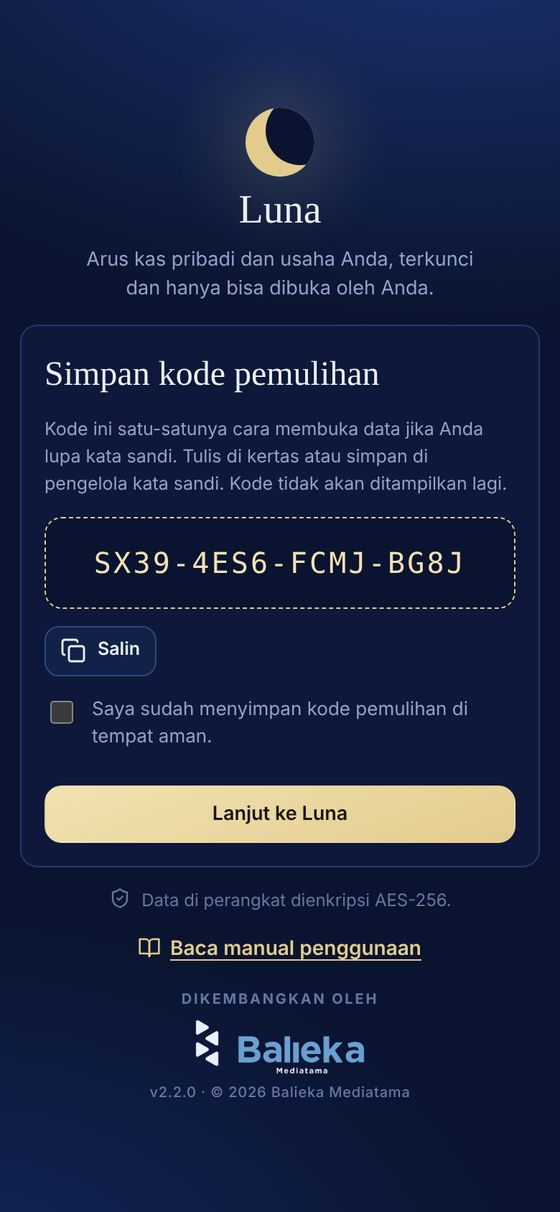
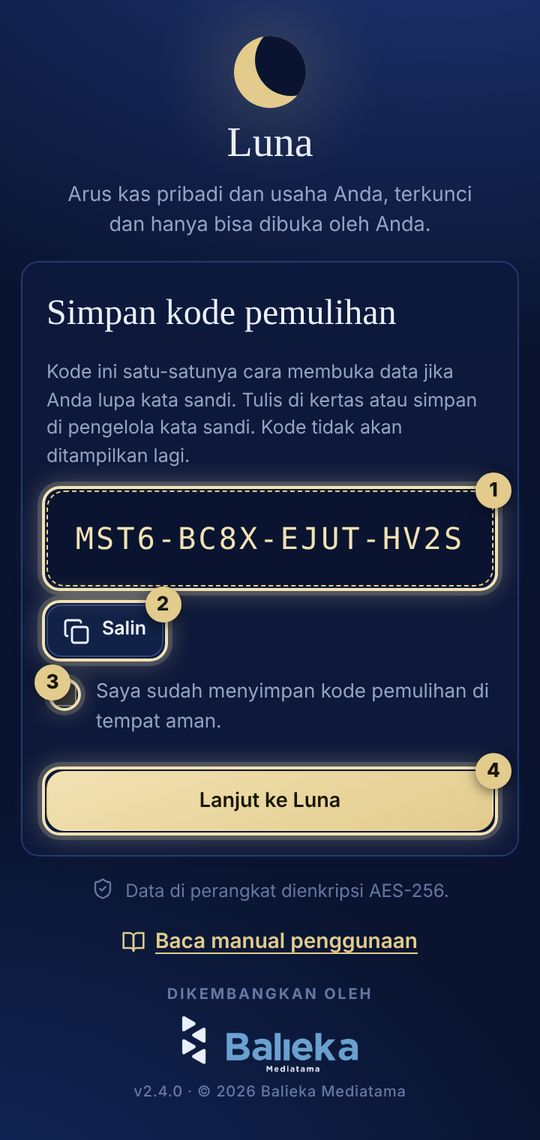
Manual v2.4: screenshot bernomor sesuai langkah, dua screenshot untuk formulir, hasil scan, laporan, dan pengaturan
Claude-Session: https://claude.ai/code/session_01FjL5nQCvVEYDKSrSiXHHwW

Changed region(s): [[0.0296, 0.0307, 0.9778, 0.9825], [0.2667, 0.9518, 0.3259, 0.9825], [0.2667, 0.8904, 0.2963, 0.9211]]

diff --git a/index.html b/index.html
@@ -432,6 +432,15 @@ code.k{overflow-wrap:anywhere;background:var(--bg);border:1px solid var(--line);
 .faq p{margin:8px 0 0}
 .manual-overlay{z-index:95}
 .manual-sheet{max-width:880px}
+.mk{display:inline-grid;place-items:center;width:20px;height:20px;border-radius:50%;background:var(--moon);color:var(--moon-ink);font-size:11.5px;font-weight:800;margin-right:6px;vertical-align:1px;flex:none}
+.man-sec.multi{grid-template-columns:1fr}
+.shots{display:flex;flex-wrap:wrap;gap:18px;justify-content:center}
+.shots .shot{flex:0 1 260px}
+.man-body ol{list-style:none;padding-left:0}
+.man-body ol li{display:flex;align-items:flex-start;gap:10px;padding-left:0}
+.man-body ol li>.mk{margin:1px 0 0}
+.man-body ol li>span:last-child{min-width:0}
+.mk.dot{width:7px;height:7px;background:var(--line-2);margin:8px 7px 0 6px!important}
 @media (max-width:600px){.man-title h3{font-size:19px}.toc{grid-template-columns:1fr 1fr}.toc button{font-size:12px;padding:8px}.shot img{max-width:240px}.manual-sheet .shot img{max-width:220px}}
 
 /* ---------- kredit pengembang ---------- */
@@ -512,7 +521,7 @@ code.k{overflow-wrap:anywhere;background:var(--bg);border:1px solid var(--line);
    ========================================================= */
 const CFG = Object.assign({supabaseUrl:"",supabaseKey:"",allowLocalAccounts:true,allowCloudSignup:true,appName:"Luna Money Tool"}, window.LUNA_CONFIG||{});
 const CLOUD = !!(CFG.supabaseUrl && CFG.supabaseKey);
-const APP_VERSION = "2.3.0";
+const APP_VERSION = "2.4.0";
 const DEVELOPER = "Balieka Mediatama";
 function creditHTML(){return `<footer class="credit"><span class="k">Dikembangkan oleh</span><img class="screen-logo" src="assets/balieka-logo-light.png" alt="${DEVELOPER}" width="125" height="40"><img class="print-logo" src="assets/balieka-logo.png" alt="${DEVELOPER}" width="125" height="40"><p>Luna Money Tool v${APP_VERSION}<br>© ${new Date().getFullYear()} ${DEVELOPER}. Hak cipta dilindungi.</p></footer>`}
 const LOCAL_OK = CFG.allowLocalAccounts!==false || !CLOUD;
@@ -1473,63 +1482,63 @@ const MANUAL=[
  {id:"kenal",t:"Mengenal Luna",i:"moon",img:"00-laptop",wide:true,cap:"Tampilan Luna di laptop: menu di kiri, ringkasan arus kas di tengah.",
   p:"Luna Money Tool membantu Anda mencatat pemasukan dan pengeluaran pribadi maupun usaha, membaca nota secara otomatis, dan menyusun laporan arus kas harian, mingguan, bulanan, dan tahunan. Aplikasi ini bisa dipakai di HP dan laptop melalui browser.",
   s:["<b>Buku Pribadi</b> untuk keuangan sehari-hari: listrik, air, belanja, makan, transportasi, dan lainnya.","<b>Buku Usaha</b> untuk penjualan, bahan baku, gaji karyawan, sewa, iklan, dan biaya usaha lainnya.","<b>Semua</b> menggabungkan kedua buku dalam satu tampilan.","Data Anda dienkripsi dan hanya bisa dibuka dengan kata sandi atau PIN Anda."]},
- {id:"daftar",t:"Daftar akun baru",i:"user-plus",img:"01-daftar",cap:"Formulir pendaftaran.",
+ {id:"daftar",t:"Daftar akun baru",i:"user-plus",img:"01-daftar",cap:"Formulir pendaftaran. Angka pada gambar sesuai nomor langkah.",
   p:"Saat pertama membuka Luna, buat akun terlebih dahulu.",
-  s:["Pilih tab <b>Daftar</b>.","Isi <b>nama</b>, <b>email</b>, dan <b>kata sandi</b> (minimal 8 karakter, campuran huruf dan angka). Garis di bawah kolom kata sandi menunjukkan kekuatannya.","Ulangi kata sandi, centang persetujuan, lalu ketuk <b>Buat akun</b>."],
+  s:["[1] Pilih tab <b>Daftar</b>.","[2] Isi <b>nama</b> dan <b>email</b> Anda.","[3] Buat <b>kata sandi</b> minimal 8 karakter, campuran huruf dan angka. Garis di bawahnya menunjukkan kekuatan sandi. Ulangi kata sandi di kolom berikutnya.","[4] Centang persetujuan.","[5] Ketuk <b>Buat akun</b>."],
   tip:"Jika pemilik aplikasi mengaktifkan akun cloud, Anda bisa memilih <b>Cloud</b> agar data tersinkron di HP dan laptop. Akun cloud perlu verifikasi lewat email."},
  {id:"pemulihan",t:"Simpan kode pemulihan",i:"key-round",img:"02-kode",cap:"Kode pemulihan hanya tampil satu kali.",
   p:"Setelah mendaftar akun perangkat, Luna menampilkan kode pemulihan 16 karakter.",
-  s:["Tulis kode di kertas atau simpan di aplikasi pengelola kata sandi.","Ketuk <b>Salin</b> jika ingin menyalinnya.","Centang <b>Saya sudah menyimpan kode pemulihan</b>, lalu ketuk <b>Lanjut ke Luna</b>."],
+  s:["[1] Tulis kode ini di kertas atau simpan di aplikasi pengelola kata sandi.","[2] Ketuk <b>Salin</b> jika ingin menyalinnya.","[3] Centang <b>Saya sudah menyimpan kode pemulihan di tempat aman</b>.","[4] Ketuk <b>Lanjut ke Luna</b>."],
   warn:"Kode ini satu-satunya cara membuka data jika Anda lupa kata sandi. Tanpa kode, data memang tidak bisa dibuka oleh siapa pun."},
  {id:"masuk",t:"Masuk, PIN, dan kunci otomatis",i:"lock",img:"03-masuk",cap:"Membuka Luna dengan PIN 6 digit.",
   p:"Setiap kali dibuka, Luna meminta kata sandi atau PIN. Aplikasi juga terkunci sendiri jika lama tidak dipakai.",
-  s:["Masukkan <b>kata sandi</b> lalu ketuk <b>Buka Luna</b>, atau ketik <b>PIN</b> jika sudah diatur. Luna terbuka otomatis setelah 6 angka.","Ketuk <b>Pakai kata sandi</b> untuk beralih dari PIN.","Ketuk <b>Lupa kata sandi?</b> untuk memulihkan akun dengan kode pemulihan (akun perangkat) atau tautan email (akun cloud)."],
-  tip:"Setelah 5 kali salah, Luna memberi jeda sebelum bisa mencoba lagi. PIN yang salah 5 kali akan dinonaktifkan."},
- {id:"navigasi",t:"Navigasi dan menu",i:"layout-grid",img:"04-beranda",cap:"Beranda di HP: buku, periode, ringkasan, dan navigasi bawah.",
+  s:["[1] Ketik <b>PIN</b> 6 angka. Luna terbuka otomatis setelah angka keenam. Jika belum mengatur PIN, isi kata sandi lalu ketuk <b>Buka Luna</b>.","[2] Ketuk <b>Pakai kata sandi</b> untuk beralih dari PIN ke kata sandi.","[3] Ketuk <b>Lupa kata sandi?</b> untuk memulihkan akun dengan kode pemulihan (akun perangkat) atau tautan email (akun cloud)."],
+  tip:"Setelah 5 kali salah, Luna memberi jeda sebelum bisa mencoba lagi. PIN yang salah 5 kali otomatis dinonaktifkan."},
+ {id:"navigasi",t:"Navigasi dan menu",i:"layout-grid",img:"04-beranda",cap:"Beranda di HP.",
   p:"Bagian atas layar dipakai untuk memilih buku dan periode. Bagian bawah untuk berpindah halaman.",
-  s:["Pilih <b>Pribadi</b>, <b>Usaha</b>, atau <b>Semua</b> di bagian atas.","Pilih periode <b>Harian</b>, <b>Mingguan</b>, <b>Bulanan</b>, atau <b>Tahunan</b>. Gunakan panah ‹ › untuk mundur atau maju.","Di HP, navigasi bawah berisi <b>Beranda</b>, <b>Transaksi</b>, <b>Nota</b>, <b>Laporan</b>, dan <b>Menu</b>.","Di laptop, semua menu ada di sisi kiri layar."]},
+  s:["[1] Pilih buku <b>Pribadi</b>, <b>Usaha</b>, atau <b>Semua</b>.","[2] Pilih periode <b>Harian</b>, <b>Mingguan</b>, <b>Bulanan</b>, atau <b>Tahunan</b>.","[3] Ketuk panah ‹ › untuk mundur atau maju ke periode lain.","[4] Kartu ringkasan menampilkan arus kas bersih, saldo saat ini, pemasukan, dan pengeluaran periode terpilih.","[5] Tombol <b>Nota</b> untuk memotret atau mengupload nota.","[6] Tombol <b>Menu</b> membuka semua fitur lain. Di laptop, semua menu ada di sisi kiri layar."]},
  {id:"menu",t:"Menu lengkap",i:"layout-grid",img:"15-menu",cap:"Isi tombol Menu di HP.",
   p:"Tombol <b>Menu</b> di kanan bawah membuka semua fitur yang tidak muat di navigasi bawah.",
   s:["<b>Anggaran</b>, <b>Analisa</b>, <b>Akun & Pengaturan</b>, dan <b>Manual</b> (panduan ini).","Pintasan <b>Tambah Transaksi</b> dan <b>Upload dari Galeri</b>.","<b>Kunci Aplikasi</b> untuk mengunci Luna seketika, misalnya sebelum meminjamkan HP."]},
  {id:"cepat",t:"Catat cepat",i:"pencil",img:"05-catat-cepat",cap:"Luna langsung menebak jenis, nominal, dan kategori.",
   p:"Cara tercepat mencatat transaksi: ketik satu kalimat pendek di kartu <b>Catat cepat</b> di Beranda.",
-  s:["Ketik misalnya <code class=\"k\">makan siang 35rb</code>, <code class=\"k\">bensin 50rb</code>, atau <code class=\"k\">gaji 8,5jt</code>.","Tambahkan kata <code class=\"k\">kemarin</code> jika transaksinya kemarin.","Periksa tebakan Luna di bawah kolom, lalu ketuk tombol kirim."],
+  s:["[1] Ketik misalnya <code class=\"k\">makan siang 35rb</code>, <code class=\"k\">bensin 50rb</code>, atau <code class=\"k\">gaji 8,5jt</code>. Tambahkan kata <code class=\"k\">kemarin</code> jika transaksinya kemarin.","[2] Periksa tebakan Luna (jenis, nominal, kategori), lalu ketuk tombol kirim di sebelah kanan kolom.","[3] Atau pakai tombol <b>Foto nota</b>, <b>Dari galeri</b>, dan <b>Form lengkap</b> untuk cara lain."],
   tip:"Kata seperti gaji, terima, jual, bonus, atau omzet otomatis dicatat sebagai pemasukan."},
- {id:"form",t:"Tambah transaksi lengkap",i:"plus",img:"08-form",cap:"Formulir transaksi.",
-  p:"Gunakan formulir lengkap jika ingin mengisi toko, tanggal, metode bayar, atau melampirkan bukti.",
-  s:["Ketuk <b>Form lengkap</b> di Beranda, atau <b>Tambah Transaksi</b> di Menu.","Pilih <b>Pengeluaran</b> atau <b>Pemasukan</b>, isi nominal, toko, tanggal, dan catatan.","Pilih buku <b>Pribadi</b> atau <b>Usaha</b>. Kategori terpilih otomatis dari nama toko dan catatan; ketuk kategori lain jika perlu.","Pilih metode bayar, lampirkan foto bukti bila ada, lalu ketuk <b>Simpan</b>."]},
+ {id:"form",t:"Tambah transaksi lengkap",i:"plus",img:["08-form","08b-kategori"],cap:["Bagian atas formulir.","Bagian bawah: kategori dan metode bayar."],
+  p:"Gunakan formulir lengkap jika ingin mengisi toko, tanggal, metode bayar, atau melampirkan bukti. Buka lewat <b>Form lengkap</b> di Beranda atau <b>Tambah Transaksi</b> di Menu.",
+  s:["[1] Pilih <b>Pengeluaran</b> atau <b>Pemasukan</b>.","[2] Isi <b>nominal</b>. Titik pemisah ribuan muncul otomatis.","[3] Isi nama <b>toko atau pihak</b>, misalnya PLN, Indomaret, atau nama pelanggan.","[4] Atur <b>tanggal</b> jika bukan hari ini. Isi catatan bila perlu.","[5] Pilih buku <b>Pribadi</b> atau <b>Usaha</b>.","[6] Gulir ke bawah. Label <b>dipilih otomatis</b> berarti Luna sudah memilih kategori.","[7] Kategori terpilih ditandai garis emas. Ketuk kategori lain jika kurang tepat.","[8] Pilih <b>metode bayar</b>, lampirkan foto bukti bila ada, lalu ketuk <b>Simpan</b>."]},
  {id:"nota",t:"Scan atau upload nota",i:"scan-line",img:"06-sumber",cap:"Pilih kamera atau galeri.",
-  p:"Luna bisa membaca struk belanja, screenshot bukti transfer m-banking, bukti bayar QRIS, dan e-wallet.",
-  s:["Ketuk tombol <b>Nota</b> di tengah bawah (di laptop: <b>Scan / Upload Nota</b>).","Pilih <b>Foto nota</b> untuk membuka kamera, atau <b>Upload dari galeri</b> untuk memilih gambar yang sudah ada. Dari galeri Anda bisa memilih beberapa gambar sekaligus.","Di laptop, Anda juga bisa menyeret gambar ke jendela Luna atau menempel screenshot dengan <b>Ctrl+V</b>."],
+  p:"Luna bisa membaca struk belanja, screenshot bukti transfer m-banking, bukti bayar QRIS, dan e-wallet. Ketuk tombol <b>Nota</b> di tengah bawah (di laptop: <b>Scan / Upload Nota</b>).",
+  s:["[1] <b>Foto nota</b> membuka kamera untuk memotret struk.","[2] <b>Upload dari galeri</b> untuk memilih foto nota atau screenshot bukti bayar yang sudah ada. Anda bisa memilih beberapa gambar sekaligus.","[3] <b>Isi manual tanpa gambar</b> jika tidak punya bukti.","Di laptop, Anda juga bisa menyeret gambar ke jendela Luna atau menempel screenshot dengan <b>Ctrl+V</b>."],
   tip:"Foto nota tegak lurus, terang, dan memenuhi layar agar terbaca lebih akurat. Pemakaian pertama butuh internet untuk mengunduh kamus bahasa Indonesia."},
- {id:"hasil",t:"Periksa hasil scan",i:"check",img:"07-hasil-scan",cap:"Hasil pembacaan nota sebelum disimpan.",
+ {id:"hasil",t:"Periksa hasil scan",i:"check",img:["07-hasil-scan","07b-lampiran"],cap:["Hasil pembacaan bukti transfer.","Gambar tersimpan sebagai bukti."],
   p:"Setelah gambar dibaca, Luna mengisi formulir secara otomatis.",
-  s:["Periksa <b>nominal</b>, <b>tanggal</b>, <b>toko/penerima</b>, dan <b>metode bayar</b>. Koreksi jika ada yang keliru.","Bukti \"dana masuk\" otomatis dicatat sebagai pemasukan.","Ketuk <b>Simpan</b>. Jika Anda memilih beberapa gambar, Luna lanjut ke gambar berikutnya; ketuk <b>Lewati</b> untuk melompatinya."],
-  tip:"Gambar disimpan terenkripsi di perangkat sebagai bukti dan bisa dilihat lagi saat membuka transaksi."},
+  s:["[1] Ringkasan di bagian atas menyebutkan apa yang terbaca: toko atau penerima, total, dan tanggal.","[2] Periksa <b>nominal</b> dan koreksi jika keliru.","[3] Periksa nama <b>toko atau penerima</b>. Bukti \"dana masuk\" otomatis dicatat sebagai pemasukan.","[4] Gulir ke bawah: gambar terlampir sebagai bukti.","[5] Metode bayar sudah terisi otomatis.","[6] Ketuk <b>Simpan</b>. Jika Anda memilih beberapa gambar, Luna lanjut ke gambar berikutnya; ketuk <b>Lewati</b> untuk melompatinya."],
+  tip:"Gambar disimpan terenkripsi di perangkat dan bisa dilihat lagi saat membuka transaksinya."},
  {id:"transaksi",t:"Daftar transaksi",i:"list",img:"09-transaksi",cap:"Transaksi dikelompokkan per tanggal.",
   p:"Halaman Transaksi menampilkan semua catatan pada periode terpilih.",
-  s:["Cari dengan nama toko, catatan, atau nominal di kolom pencarian.","Saring berdasarkan jenis (pengeluaran/pemasukan) dan kategori.","Ketuk sebuah transaksi untuk mengubah atau menghapusnya. Untuk menghapus, ketuk <b>Hapus</b> dua kali."],
+  s:["[1] Cari dengan nama toko, catatan, atau nominal.","[2] Saring berdasarkan jenis: pengeluaran atau pemasukan.","[3] Saring berdasarkan kategori.","[4] Ringkasan jumlah transaksi, uang masuk, keluar, dan bersih sesuai saringan.","[5] Ketuk sebuah transaksi untuk mengubah atau menghapusnya. Untuk menghapus, ketuk <b>Hapus</b> dua kali."],
   tip:"Jika Anda mengganti kategori sebuah toko, Luna mengingatnya. Transaksi berikutnya dari toko yang sama otomatis masuk kategori itu."},
  {id:"anggaran",t:"Anggaran bulanan",i:"target",img:"13-anggaran",cap:"Batas bulanan per kategori dan pemakaiannya.",
-  p:"Tetapkan batas pengeluaran bulanan untuk setiap kategori.",
-  s:["Buka <b>Menu → Anggaran</b>.","Isi nominal di kolom kanan setiap kategori. Kosongkan jika tidak ingin dibatasi.","Ketuk <b>Saran dari rata-rata 3 bulan</b> agar Luna mengisinya otomatis.","Bar berubah kuning saat pemakaian 80% dan merah saat terlewati."],
-  tip:"Kartu <b>Sisa aman per hari</b> memberi tahu berapa yang masih boleh dibelanjakan setiap hari sampai akhir bulan."},
- {id:"laporan",t:"Laporan arus kas",i:"bar-chart-3",img:"10-laporan",cap:"Laporan arus kas bulanan.",
-  p:"Menu Laporan menyusun arus kas sesuai periode yang Anda pilih.",
-  s:["Pilih <b>Harian</b>, <b>Mingguan</b>, <b>Bulanan</b>, atau <b>Tahunan</b>.","Empat kartu teratas menampilkan <b>saldo awal</b>, <b>kas masuk</b>, <b>kas keluar</b>, dan <b>saldo akhir</b>.","Grafik menunjukkan uang masuk dan keluar beserta garis saldo.","Laporan arus kas merinci pemasukan per sumber dan pengeluaran per kategori."]},
+  p:"Tetapkan batas pengeluaran bulanan untuk setiap kategori. Buka lewat <b>Menu → Anggaran</b>.",
+  s:["[1] Ketuk <b>Saran dari rata-rata 3 bulan</b> agar Luna mengisi semua batas otomatis.","[2] Atau isi batas sendiri di kolom kanan setiap kategori. Kosongkan jika tidak ingin dibatasi.","[3] Bar pemakaian berubah kuning saat terpakai 80% dan merah saat terlewati."],
+  tip:"Kartu <b>Sisa aman per hari</b> di atas menunjukkan berapa yang masih boleh dibelanjakan setiap hari sampai akhir bulan."},
+ {id:"laporan",t:"Laporan arus kas",i:"bar-chart-3",img:["10-laporan","10b-arus-kas"],cap:["Bagian atas Laporan.","Laporan arus kas: saldo awal sampai saldo akhir."],
+  p:"Menu Laporan menyusun arus kas sesuai buku dan periode yang Anda pilih.",
+  s:["[1] Tombol ekspor: <b>CSV laporan</b>, <b>CSV transaksi</b>, dan <b>Cetak / PDF</b>. Geser ke samping untuk melihat semuanya.","[2] Pilih laporan <b>Harian</b>, <b>Mingguan</b>, <b>Bulanan</b>, atau <b>Tahunan</b>.","[3] Ketuk panah untuk melihat periode sebelumnya atau berikutnya.","[4] Empat kartu menampilkan <b>saldo awal</b>, <b>kas masuk</b>, <b>kas keluar</b>, dan <b>saldo akhir</b>.","Di bawahnya ada grafik masuk dan keluar dengan garis saldo, lalu laporan arus kas yang merinci pemasukan per sumber dan pengeluaran per kategori."]},
  {id:"rincian",t:"Rincian, ekspor, dan cetak",i:"file-text",img:"11-rincian",cap:"Rincian per minggu dalam laporan bulanan.",
   p:"Tabel rincian menyesuaikan periode: harian per transaksi, mingguan per hari, bulanan per minggu, tahunan per bulan.",
-  s:["Geser tabel ke samping di HP untuk melihat semua kolom.","Ketuk <b>CSV laporan</b> atau <b>CSV transaksi</b> untuk mengunduh file yang bisa dibuka di Excel atau Google Sheets.","Ketuk <b>Cetak / PDF</b> untuk mencetak atau menyimpan laporan sebagai PDF."],
+  s:["Geser tabel ke samping di HP untuk melihat semua kolom: saldo awal, masuk, keluar, bersih, dan saldo akhir.","Ketuk <b>CSV laporan</b> atau <b>CSV transaksi</b> di atas halaman untuk mengunduh file yang bisa dibuka di Excel atau Google Sheets.","Ketuk <b>Cetak / PDF</b> untuk mencetak atau menyimpan laporan sebagai PDF."],
   tip:"Isi <b>saldo awal</b> di Akun & Pengaturan agar saldo di laporan sama dengan uang Anda sebenarnya."},
- {id:"usaha",t:"Laporan usaha",i:"store",img:"12-usaha",cap:"Laba rugi dan arus kas per aktivitas untuk buku Usaha.",
+ {id:"usaha",t:"Laporan usaha",i:"store",img:"12-usaha",cap:"Laba rugi buku Usaha.",
   p:"Saat buku <b>Usaha</b> dipilih, laporan menampilkan bagian khusus usaha.",
   s:["<b>Arus kas per aktivitas</b>: operasi, investasi (pembelian peralatan), dan pendanaan (tambahan modal, prive).","<b>Laba Rugi</b>: pendapatan dikurangi HPP menjadi laba kotor, lalu dikurangi biaya operasional menjadi laba bersih.","Catat uang usaha yang dipakai untuk keperluan pribadi sebagai <b>Prive</b>, dan setoran modal sebagai <b>Tambahan Modal</b>, agar laba tetap akurat."]},
  {id:"analisa",t:"Analisa Luna",i:"sparkles",img:"14-analisa",cap:"Temuan otomatis dari pola transaksi.",
-  p:"Luna membaca pola keuangan Anda dan menyampaikan temuan penting.",
+  p:"Luna membaca pola keuangan Anda dan menyampaikan temuan penting. Buka lewat <b>Menu → Analisa</b>.",
   s:["Perubahan pengeluaran dibanding periode lalu, dan kategori yang melonjak.","Proyeksi pengeluaran sampai akhir minggu atau bulan.","Pola 50/30/20: kebutuhan, keinginan, dan tabungan dibanding pemasukan.","Margin usaha, transaksi tidak biasa, dan pengeluaran rutin seperti langganan."]},
- {id:"pengaturan",t:"Akun & pengaturan",i:"settings",img:"16-pengaturan",cap:"Halaman Akun & Pengaturan.",
-  p:"Atur keamanan, saldo awal, dan cadangan data di sini.",
-  s:["<b>Atur PIN 6 digit</b> untuk membuka Luna lebih cepat di perangkat ini.","Pilih <b>Kunci otomatis</b> 1 sampai 30 menit.","<b>Ganti kata sandi</b>, <b>Kunci sekarang</b>, atau <b>Keluar</b>. Pilih Keluar di perangkat bersama.","Isi <b>Saldo awal Pribadi</b> dan <b>Saldo awal Usaha</b>.","<b>Cadangan lengkap (.json)</b> untuk menyimpan semua data; <b>Impor</b> untuk memasukkannya kembali atau memindahkan dari Excel (CSV)."],
+ {id:"pengaturan",t:"Akun & pengaturan",i:"settings",img:["16-pengaturan","16b-saldo-awal"],cap:["Keamanan akun.","Saldo awal dan cadangan data."],
+  p:"Atur keamanan, saldo awal, dan cadangan data. Buka lewat <b>Menu → Akun & Pengaturan</b> atau ikon akun di kanan atas.",
+  s:["[1] Pilih <b>Kunci otomatis</b> 1 sampai 30 menit tidak dipakai.","[2] <b>Atur PIN 6 digit</b> untuk membuka Luna lebih cepat di perangkat ini.","[3] <b>Ganti kata sandi</b>.","[4] <b>Kunci sekarang</b> untuk mengunci seketika.","[5] <b>Keluar</b> dari akun. Pilih ini di perangkat bersama.","[6] Gulir ke bawah, isi <b>Saldo awal Pribadi</b>: total uang tunai, rekening, dan e-wallet pribadi saat mulai memakai Luna.","[7] Isi <b>Saldo awal Usaha</b> dengan cara yang sama untuk kas usaha.","[8] <b>Cadangan lengkap (.json)</b> menyimpan semua data. <b>Impor</b> untuk memasukkannya kembali atau memindahkan data dari Excel (CSV)."],
   warn:"File cadangan tidak terenkripsi. Simpan di tempat pribadi seperti Google Drive milik Anda sendiri."},
  {id:"pasang",t:"Pasang di HP seperti aplikasi",i:"smartphone",
   p:"Luna bisa dipasang di layar utama HP dan dibuka tanpa bilah browser.",
@@ -1545,17 +1554,20 @@ const FAQ=[
  ["Bagaimana menghapus data contoh?","Buka Akun & Pengaturan, lalu ketuk Hapus data contoh."],
 ];
 function shot(name,cap,wide){return `<figure class="shot ${wide?"wide":""}"><img src="assets/manual/${name}.jpg" alt="${esc(cap)}" loading="lazy" decoding="async"><figcaption>${esc(cap)}</figcaption></figure>`}
+const mk=x=>x.replace(/\[(\d)\]/g,'<span class="mk" aria-label="penanda $1">$1</span>');
+function stepHTML(x){const m=x.match(/^\[(\d)\]\s*/);const badge=m?`<span class="mk">${m[1]}</span>`:`<span class="mk dot"></span>`;return `<li>${badge}<span>${mk(m?x.slice(m[0].length):x)}</span></li>`}
+function shots(m){const imgs=[].concat(m.img||[]),caps=[].concat(m.cap||[]);if(!imgs.length)return "";const h=imgs.map((n,i)=>shot(n,caps[i]||caps[0]||"",m.wide)).join("");return imgs.length>1?`<div class="shots">${h}</div>`:h}
 function manualHTML(){
   return `<div class="manual">
   <div class="manual-head"><div><h2 class="section-title">Manual Luna Money Tool</h2><p class="lede">Panduan langkah demi langkah memakai Luna di HP dan laptop. Ketuk judul di daftar isi untuk langsung ke bagiannya.</p></div></div>
   <div class="search"><i data-lucide="search"></i><input class="input" id="manQ" placeholder="Cari di panduan, misalnya: PIN, scan, anggaran" aria-label="Cari di panduan"></div>
   <nav class="toc" aria-label="Daftar isi">${MANUAL.map((m,i)=>`<button data-jump="man-${m.id}"><span class="num">${i+1}</span>${m.t}</button>`).join("")}<button data-jump="man-faq"><span class="num">?</span>Tanya jawab</button></nav>
-  ${MANUAL.map((m,i)=>`<section class="card man-sec ${m.wide?"is-wide":""}" id="man-${m.id}" data-text="${esc((m.t+" "+m.p+" "+m.s.join(" ")+" "+(m.tip||"")+" "+(m.warn||"")).replace(/<[^>]+>/g,"").toLowerCase())}">
+  ${MANUAL.map((m,i)=>`<section class="card man-sec ${m.wide?"is-wide":""} ${[].concat(m.img||[]).length>1?"multi":""}" id="man-${m.id}" data-text="${esc((m.t+" "+m.p+" "+m.s.join(" ").replace(/\[\d\]/g,"")+" "+(m.tip||"")+" "+(m.warn||"")).replace(/<[^>]+>/g,"").toLowerCase())}">
     <div class="man-body"><div class="man-title"><span class="step-no">${i+1}</span><h3>${m.t}</h3></div>
-      <p>${m.p}</p><ol>${m.s.map(x=>`<li>${x}</li>`).join("")}</ol>
+      <p>${m.p}</p><ol>${m.s.map(stepHTML).join("")}</ol>
       ${m.tip?`<div class="note tip"><i data-lucide="lightbulb"></i><span>${m.tip}</span></div>`:""}
       ${m.warn?`<div class="note warn"><i data-lucide="alert-triangle"></i><span>${m.warn}</span></div>`:""}</div>
-    ${m.img?shot(m.img,m.cap,m.wide):""}
+    ${shots(m)}
   </section>`).join("")}
   <section class="card man-sec" id="man-faq" data-text="${esc(FAQ.flat().join(" ").toLowerCase())}"><div class="man-body"><div class="man-title"><span class="step-no">?</span><h3>Tanya jawab</h3></div>
     ${FAQ.map(([q,a])=>`<details class="faq"><summary>${q}</summary><p>${a}</p></details>`).join("")}</div></section>

diff --git a/sw.js b/sw.js
@@ -1,7 +1,7 @@
 /* Luna Money Tool — service worker
    Membuat aplikasi bisa dibuka tanpa internet setelah kunjungan pertama.
    Naikkan VERSION setiap kali Anda meng-upload versi baru index.html. */
-const VERSION = "luna-v2.3.0";
+const VERSION = "luna-v2.4.0";
 const SHELL = ["./", "./index.html", "./config.js", "./manifest.webmanifest", "./icons/icon-192.png", "./icons/icon-512.png", "./icons/apple-touch-icon.png", "./assets/balieka-logo-light.png", "./assets/balieka-logo.png"];
 
 self.addEventListener("install", (e) => {
